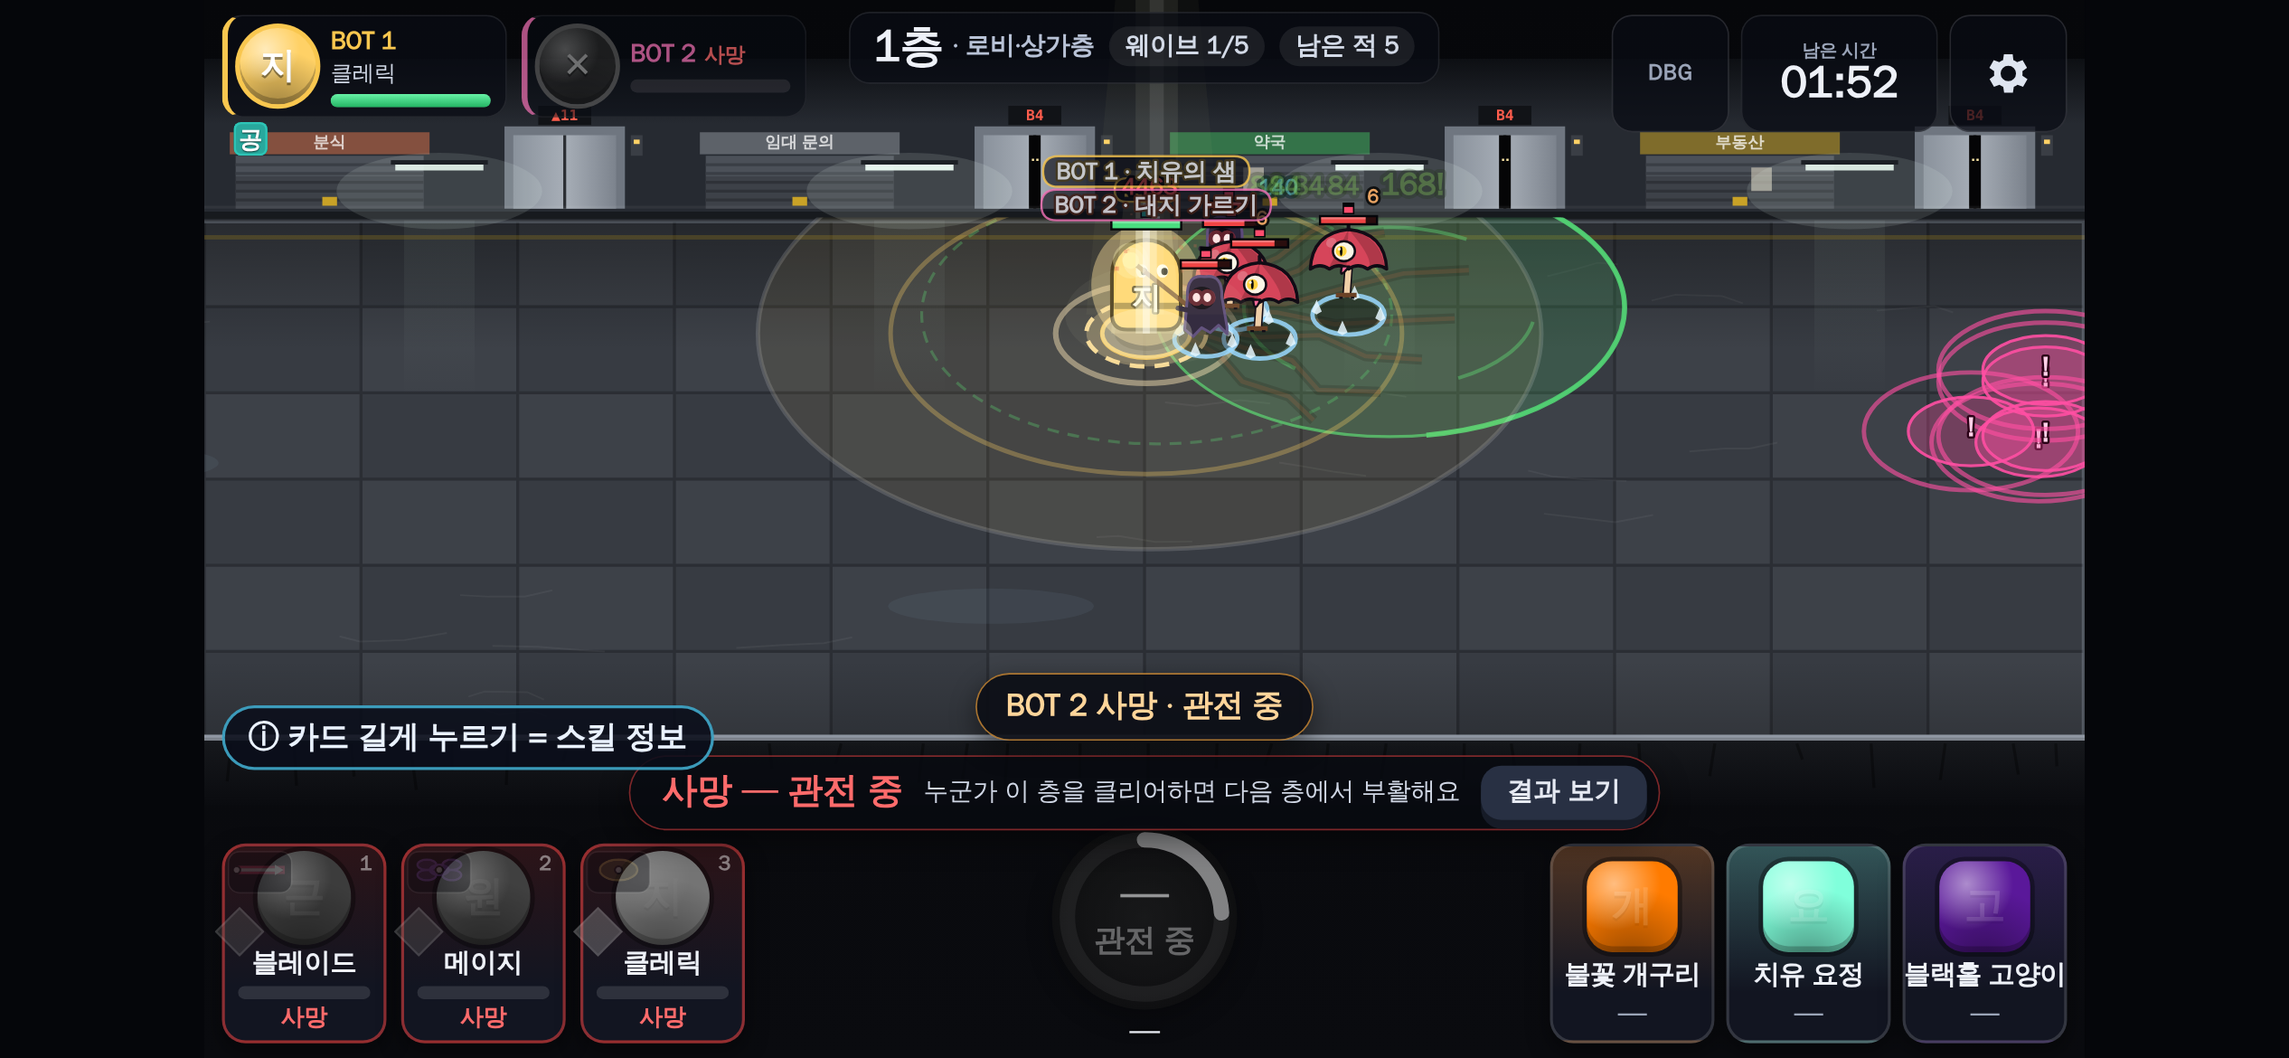
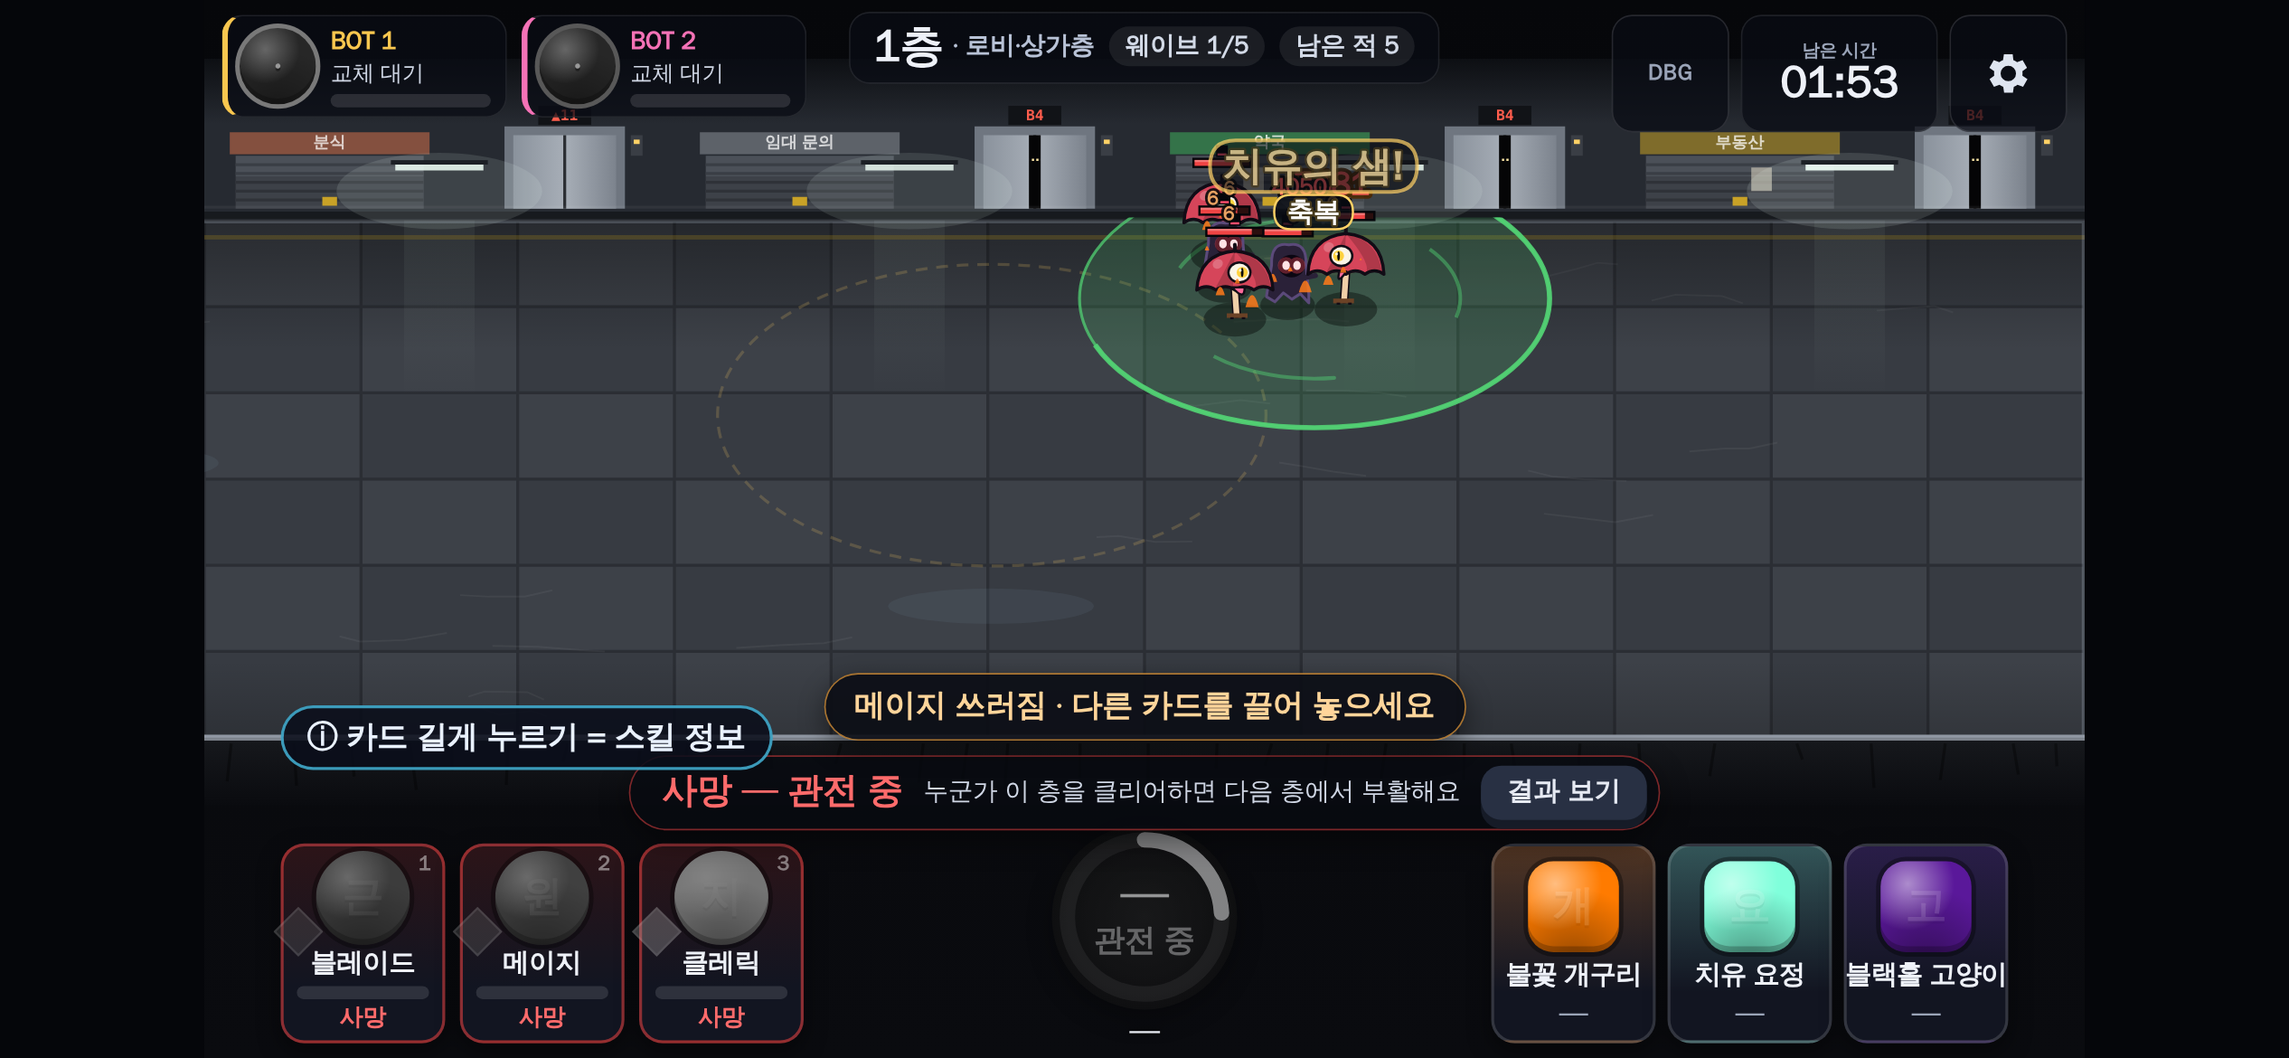
HUD: cards in from the edges, drag cooldown shown only as the big number (round-9 decision)
- character card row 40 px right, pet row 40 px left (stage 1280)
- bench card label says '쿨타임' instead of 'drag N s'; the seconds stay
  as the big countdown on the portrait
- drop the top-left drag-shape badge and its cooldown bar; a drag cast
  flashes the portrait, a cooldown cut flashes the countdown

Claude-Session: https://claude.ai/code/session_019cphuBiihGo4sPKDYcPWCV

diff --git a/src/ui/hud.ts b/src/ui/hud.ts
@@ -8,7 +8,7 @@ import { ROLE_LABEL, getBoss, getCharacter, getMonster, getPet } from '../data';
 import { ZONES } from '../config';
 import { ICON_GEAR, button, h, replayClass, setAttr, setClass, setStyle, setText, show } from './dom';
 import { ROLE_GLYPH, STATUS_GLYPH, STATUS_LABEL, countdown, formatClock, refusalText } from './format';
-import { dragShapeIcon, petIcon, portrait } from './preset';
+import { petIcon, portrait } from './preset';
 import { normalCooldownFor, swapCooldownOf } from '../sim/cooldowns';
 import { type SkillRowKind, cdText, secs, skillRows } from './skillinfo';
 import { markTipSeen, tipSeen } from './storage';
@@ -77,9 +77,8 @@ interface CharCard {
   hpFill: HTMLElement;
   hpShield: HTMLElement;
   state: HTMLElement;
-  /** Drag-skill badge (shape icon) + its re-appear cooldown bar. */
-  drag: HTMLElement;
-  dragBar: HTMLElement;
+  /** Portrait: flashes when this character's drag skill fires. */
+  por: HTMLElement;
   /** Normal (auto) skill cooldown: small diamond at the portrait's lower-left (목업의 마름모 + '0.99') + its seconds. */
   norm: HTMLElement;
   normT: HTMLElement;
@@ -330,12 +329,8 @@ export class Hud {
       el.dataset.idx = String(i);
       const pips = makePips(el, 6, 'cc-pips');
       const frame = h('div', 'cc-frame', el);
-      // mini footprint of the drag skill (shape + fixed direction), like the preset screen: three melee cards
-      // no longer look alike before you lift one. The bar under it fills as the re-appear (= drag-skill) cooldown runs.
-      const drag = h('div', 'cc-drag', frame);
-      const shape = dragShapeIcon(def, 'cc-shape', 40, 22, drag);
-      shape.title = `${ROLE_LABEL[def.role]} · 드래그스킬 ${def.drag.name}`;
-      const dragBar = h('div', 'cc-drag-bar', drag);
+      // 기획 9차: the re-appear (= drag-skill) cooldown shows only as the big number on the portrait
+      // (no top-left badge/bar, no seconds in the label under the name)
       h('div', 'cc-slot', frame, String(i + 1));
       const por = portrait(def, 'cc-portrait', frame);
       const cd = h('div', 'cc-cd is-hidden', por);
@@ -355,7 +350,7 @@ export class Hud {
       // hover help on the card itself (the diamond lets pointers through to the card, so a title there never shows)
       el.title = `${def.name} · 왼쪽 아래 마름모 = 일반스킬 ${def.normal.name} 쿨 (자동) · 길게 누르면 스킬 정보`;
       el.addEventListener('pointerdown', ev => this.onCardPointerDown(i, ev, el));
-      this.charCards.push({ el, def, pips, cd, count, hpFill, hpShield, state, drag, dragBar, norm, normT });
+      this.charCards.push({ el, def, pips, cd, count, hpFill, hpShield, state, por, norm, normT });
     });
 
     // ── bottom-center: ult gauge ──
@@ -701,7 +696,7 @@ export class Hud {
             // the caster's card (by entity: the event may arrive after a swap)
             const idx = s.players[this.localPlayer]?.party.findIndex(m => m.entityId === e.sourceId) ?? -1;
             const card = this.charCards[idx];
-            if (card) replayClass(e.slot === 'normal' ? card.norm : card.drag, 'is-fired');
+            if (card) replayClass(e.slot === 'normal' ? card.norm : card.por, 'is-fired');
           }
           if (e.sourceId !== null && e.sourceId === s.bossId && e.name) {
             // telegraphed patterns stay up until they land; instant ones (소환) for a moment
@@ -904,12 +899,8 @@ export class Hud {
       setClass(c.el, 'is-dead', m.dead);
       setClass(c.el, 'is-cool', cooling || locked);
       setClass(c.el, 'is-ready', ready);
-      // re-appear cooldown = drag-skill cooldown (기획서 4장): say so on the card while it runs
-      setText(
-        c.state,
-        me.out ? '사망' : active ? '활성화' : m.dead ? '쓰러짐' : cooling ? `드래그 ${secs(m.swapCooldownRemaining)}초` : ready ? '교체가능' : '교체불가',
-      );
-      setClass(c.state, 'is-cd', cooling && !me.out);
+      // re-appear cooldown = drag-skill cooldown (기획서 4장): the seconds are the big number on the portrait only
+      setText(c.state, me.out ? '사망' : active ? '활성화' : m.dead ? '쓰러짐' : cooling ? '쿨타임' : ready ? '교체가능' : '교체불가');
       // big countdown: revive time when dead, else the re-appear cooldown of a benched card.
       // Out (all three down = spectating, R11): timers are frozen → no number; all three come back at the next floor
       // if someone clears this one (기획 5차).
@@ -921,11 +912,6 @@ export class Hud {
         const total = m.dead ? Math.max(m.reviveRemaining, this.game.tunables.reviveTime) : Math.max(0.01, m.swapCooldownTotal);
         setStyle(c.cd, '--p', `${Math.round(frac(t, total) * 360)}deg`);
       }
-      // drag badge: bar = how much of the re-appear cooldown has passed (full = ready)
-      const dragLeft = me.out || m.dead ? 1 : m.swapCooldownRemaining > 0 ? frac(m.swapCooldownRemaining, Math.max(0.01, m.swapCooldownTotal)) : 0;
-      setStyle(c.dragBar, 'transform', sx(1 - dragLeft));
-      setClass(c.drag, 'is-ready', ready);
-      setClass(c.drag, 'is-cool', !ready && !active);
       this.updateNormal(c, m, i, me.out, active);
       const hf = m.dead ? 0 : frac(m.hp, m.maxHp);
       setStyle(c.hpFill, 'transform', sx(hf));
@@ -935,10 +921,10 @@ export class Hud {
     });
   }
 
-  /** "-3초" floating off a card whose re-appear cooldown was just cut, plus a flash of its drag badge. */
+  /** "-3초" floating off a card whose re-appear cooldown was just cut, plus a flash of its countdown. */
   private cutPop(c: CharCard, seconds: number): void {
     const pop = h('div', 'cc-cut', c.el, `-${secs(seconds)}초`);
-    replayClass(c.drag, 'is-cut');
+    replayClass(c.cd, 'is-cut');
     setTimeout(() => pop.remove(), 1300);
   }
 

diff --git a/tests/e2e/smoke.spec.ts b/tests/e2e/smoke.spec.ts
@@ -211,7 +211,10 @@ test('full run: preset → combat → drag/pet/ult → reward → boss (enrage, 
   expect(afterSwap.fieldCd).toBe(0);
   await expect(page.locator('.ccard[data-idx="1"]')).toHaveClass(/is-active/);
   await expect(page.locator('.ccard[data-idx="0"]')).toHaveClass(/is-cool/);
-  await expect(page.locator('.ccard[data-idx="0"] .cc-state')).toHaveText(/^드래그 \d+(\.\d)?초$/);
+  // 기획 9차: the drag (= re-appear) cooldown is the big number on the portrait only — no badge, no seconds in the label
+  await expect(page.locator('.ccard[data-idx="0"] .cc-count')).toHaveText(/^\d+$/);
+  await expect(page.locator('.ccard[data-idx="0"] .cc-state')).toHaveText('쿨타임');
+  await expect(page.locator('.ccard .cc-drag')).toHaveCount(0);
 
   // ── 쿨타임이 보임: each card's auto-skill diamond (목업의 마름모: lit = ready, else small seconds), no separate widget;
   //    drag (= re-appear) cooldowns on the cards ──
@@ -243,7 +246,7 @@ test('full run: preset → combat → drag/pet/ult → reward → boss (enrage, 
   // the "i" (tap → skill sheet) only on the field character's card
   await expect(page.locator('.ccard[data-idx="1"] .cc-info')).toBeVisible();
   await expect(page.locator('.ccard[data-idx="0"] .cc-info')).toBeHidden();
-  // small, and clear of the drag badge, the card number, name, HP bar and label (diamond = |dx| + |dy| ≤ r)
+  // small, and clear of the card number, countdown, name, HP bar and label (diamond = |dx| + |dy| ≤ r)
   const clash = await page.evaluate(() =>
     [...document.querySelectorAll('.ccard')].flatMap(card => {
       const d = card.querySelector('.cc-norm')!.getBoundingClientRect();
@@ -253,7 +256,7 @@ test('full run: preset → combat → drag/pet/ult → reward → boss (enrage, 
       const stage = document.querySelector('.stage')!.getBoundingClientRect();
       const out: string[] = [];
       if (d.width / (stage.width / 1280) > 40) out.push(`${(card as HTMLElement).dataset.idx}: diamond ${d.width.toFixed(1)} px is not small`);
-      for (const sel of ['.cc-drag', '.cc-slot', '.cc-name', '.cc-hp', '.cc-state', '.cc-info']) {
+      for (const sel of ['.cc-slot', '.cc-count', '.cc-name', '.cc-hp', '.cc-state', '.cc-info']) {
         const el = card.querySelector(sel) as HTMLElement | null;
         if (!el || el.offsetParent === null) continue;
         const b = el.getBoundingClientRect();
@@ -271,7 +274,10 @@ test('full run: preset → combat → drag/pet/ult → reward → boss (enrage, 
       const m = me.party[idx as number];
       return { active: me.activeIndex === idx, cd: m.swapCooldownRemaining, dead: m.dead };
     }, i);
-    if (!st.active && !st.dead && st.cd > 0.3) await expect(page.locator(`.ccard[data-idx="${i}"] .cc-state`)).toHaveText(/^드래그 \d+(\.\d)?초$/);
+    if (!st.active && !st.dead && st.cd > 0.3) {
+      await expect(page.locator(`.ccard[data-idx="${i}"] .cc-state`)).toHaveText('쿨타임');
+      await expect(page.locator(`.ccard[data-idx="${i}"] .cc-count`)).toHaveText(/^\d+$/);
+    }
   }
   await expect(page.locator('.ult-sub')).toHaveText(/(\d+초 후|궁극기 준비)$/);
   // tap the field character's card → compact skill sheet over the field (never blocks it), tap again → closed

diff --git a/src/ui/styles.css b/src/ui/styles.css
@@ -1389,10 +1389,10 @@
   letter-spacing: 0.5px;
 }
 
-/* bottom-left: character cards */
+/* bottom-left: character cards (기획 9차: a little in from the edge) */
 .hud-bl {
   position: absolute;
-  left: 12px;
+  left: 52px;
   bottom: 10px;
   display: flex;
   align-items: flex-end;
@@ -1544,70 +1544,9 @@
   color: #ff6b6b;
 }
 
-/* drag-skill footprint badge: above the portrait's corner (the glyph/countdown stays clear in the middle).
-   The bar under the shape = how much of the re-appear (= drag-skill) cooldown has passed; green ring = ready. */
-.cc-drag {
-  position: absolute;
-  z-index: 2;
-  top: 4px;
-  left: 3px;
-  width: 42px;
-  height: 27px;
-  border-radius: 7px;
-  background: rgba(6, 8, 14, 0.86);
-  box-shadow: 0 0 0 1px rgba(255, 255, 255, 0.16);
-  pointer-events: none;
-  overflow: hidden;
-}
-
-.cc-shape {
-  position: absolute;
-  top: 1px;
-  left: 1px;
-  width: 40px;
-  height: 22px;
-}
-
-.cc-drag-bar {
-  position: absolute;
-  left: 0;
-  right: 0;
-  bottom: 0;
-  height: 4px;
-  transform-origin: 0 50%;
-  background: color-mix(in srgb, var(--c) 80%, white);
-  transition: transform 0.12s linear;
-}
-
-.cc-drag.is-cool .cc-shape {
-  opacity: 0.4;
-}
-
-.cc-drag.is-cool .cc-drag-bar {
-  background: rgba(255, 255, 255, 0.55);
-}
-
-.cc-drag.is-ready {
-  box-shadow: 0 0 0 2px var(--green), 0 0 12px rgba(61, 220, 132, 0.75);
-}
-
-.cc-drag.is-ready .cc-drag-bar {
-  background: var(--green);
-}
-
-.cc-drag.is-fired {
+/* the drag skill fired (it just appeared): its portrait flashes */
+.cc-portrait.is-fired {
   animation: badgeFired 0.55s ease-out;
-}
-
-.ccard.is-dead .cc-drag {
-  opacity: 0.4;
-}
-
-.cc-state.is-cd {
-  color: #d6e6ff;
-  font-size: 15px;
-  letter-spacing: -0.4px;
-  font-variant-numeric: tabular-nums;
 }
 
 @keyframes badgeFired {
@@ -1795,7 +1734,7 @@
 /* one-time tip (start of floor 1, until the sheet was opened once): right above the card row */
 .sheet-tip {
   position: absolute;
-  left: 12px;
+  left: 52px;
   bottom: 196px;
   padding: 7px 16px;
   border-radius: 999px;
@@ -1817,7 +1756,7 @@
   display: none;
 }
 
-/* a cooldown cut on a bench card (크로노 …): "-3초" floats up off the card, the drag badge flashes */
+/* a cooldown cut on a bench card (크로노 …): "-3초" floats up off the card, its countdown flashes */
 .cc-cut {
   position: absolute;
   z-index: 4;
@@ -1840,7 +1779,7 @@
   100% { opacity: 0; transform: translate(-50%, -40px) scale(1); }
 }
 
-.cc-drag.is-cut {
+.cc-cd.is-cut {
   animation: badgeFired 0.7s ease-out;
 }
 
@@ -2080,10 +2019,10 @@
   opacity: 0.6;
 }
 
-/* bottom-right: pets */
+/* bottom-right: pets (기획 9차: a little in from the edge) */
 .hud-br {
   position: absolute;
-  right: 12px;
+  right: 52px;
   bottom: 10px;
   display: flex;
   gap: 8px;
@@ -3971,10 +3910,6 @@
 
 .stage.is-small .pc-state {
   font-size: 19px;
-}
-
-.stage.is-small .cc-state.is-cd {
-  font-size: 18px;
 }
 
 .stage.is-small .pip {

diff --git a/docs/prototype-architecture.md b/docs/prototype-architecture.md
@@ -162,12 +162,12 @@ Playwright 프로젝트 (`playwright.config.ts`, Chromium은 `/opt/pw-browsers/c
 
 HUD (`src/ui/hud.ts`, `src/ui/skillinfo.ts`, `styles.css`):
 - **일반스킬 쿨 = 카드의 작은 마름모** (목업의 마름모 + '0.99', 4차 결정 §17): 카드마다(활성·대기 모두) 초상화 왼쪽 아래, 카드 왼쪽 테두리에 걸쳐 작은 마름모. 준비 = 캐릭터 색으로 빛나는 마름모, 쿨 중 = 어두운 마름모에 색이 시계 방향으로 다시 차오르고 남은 초(3초 이상은 정수 "6", 마지막 3초는 소수 한 자리 "2.4" — 최대 3글자라 폰(글자 19~20 = 약 10~11 CSS px)에서도 마름모 안에 들어감. 올림이라 쿨 중엔 "0"/"0.0" 없음; `skillinfo.ts` `cdText`). 필드 카드가 준비됐는데 안 나가는 중(맞힐 적이 사거리 밖 / 기절) = 빛나는 마름모를 흐리게(`is-waiting`, 스킬 정보의 "대기"와 같은 조건). 쿨 길이는 sim의 `sim/cooldowns.ts` `normalCooldownFor`(데이터 × 보상 감소)를 그대로 호출 (멀티는 스냅샷의 PlayerState로, 테스트로 같음을 확인). 대기 카드의 쿨도 sim처럼 계속 흐름. 쓰러짐/관전 = 흐린 회색, 숫자 없음. 발동(`skillCast` slot normal)하면 마름모가 번쩍이고 테두리가 퍼짐. 마름모는 포인터를 통과시키므로 마우스 설명(title)은 카드에 있음. 따로 크게 띄우던 "자동 스킬" 칸은 없앰. 활성 카드 오른쪽(번호 아래) 작은 "i" = 탭하면 스킬 정보.
-- **카드**: 쿨 중인 대기 카드 상태 줄 = "드래그 6.2초"(재등장 쿨 = 드래그스킬 쿨). 왼쪽 위 드래그 모양 배지 아래 막대가 쿨만큼 차고, 준비되면 초록 테두리.
+- **카드**: 재등장 쿨(= 드래그스킬 쿨)은 초상화 위 큰 숫자 하나로만 보임 (9차 결정 §22). 쿨 중인 대기 카드 상태 줄 = "쿨타임"(초는 안 씀). 왼쪽 위 드래그 모양 배지·쿨 막대는 없앰 — 드래그 모양은 끌 때 미리보기와 스킬 정보에 있음. 드래그스킬이 나가면 초상화가 번쩍임.
 - **궁극기**: % 아래 "N초 후"(충전은 시간만: `(1 − charge) × ultChargeTime`), 쓸 수 있으면 "탭!".
-- **쿨 감소가 보임**: 대기 카드의 재등장 쿨이 시간보다 빨리 줄면(크로노 시간 균열, 펫 등) 카드 위로 "-2초"(크로노 시간 균열, 6차 수치) 같은 숫자가 떠오르고 드래그 배지가 번쩍임 (`hud.ts` `cutPop`).
+- **쿨 감소가 보임**: 대기 카드의 재등장 쿨이 시간보다 빨리 줄면(크로노 시간 균열, 펫 등) 카드 위로 "-2초"(크로노 시간 균열, 6차 수치) 같은 숫자가 떠오르고 큰 숫자가 번쩍임 (`hud.ts` `cutPop`).
 - **스킬 정보**: 활성 카드 탭("i" 표시), 또는 아무 카드 길게 누르기(0.42초) → 5개 스킬, 스킬마다 두 줄(종류 · 이름 · 발동/쿨 · 지금 남은 시간 / 효과 전체, 잘리지 않고 줄바꿈). 폭 520(폰 560), **내 캐릭터 반대쪽 절반**에 뜨고 캐릭터가 그 밑으로 걸어오면 반대쪽으로 옮김. 효과 문구는 데이터에서 만들어서(`skillSummary`, 장판은 "0.5초마다 회복 2% · 4초 장판") 수치를 바꾸면 같이 바뀜. 터치를 막지 않음(pointer-events 없음), 7초 뒤 자동으로 닫힘, 드래그 시작하면 닫힘. 쿨 중인 카드를 길게 눌러도 거절 안내·흔들림 없음 (손가락을 끌거나 그냥 탭했을 때만).
 - **처음 안내**: 1층 시작에 카드 줄 위 "ⓘ 카드 길게 누르기 = 스킬 정보" (9초, 스킬 정보를 한 번 열 때까지 런마다, `storage.ts` `tipSeen`).
-- **폰 글자 크기**: 무대가 0.75배보다 작게 그려지면(844×390 폰 = 0.54) `.stage.is-small` → 작은 HUD 글자(카드 마름모 숫자, 궁극기 "N초 후", 펫 이름·상태, 카드 쿨 문구, 상태 칸, 스킬 정보)를 키움 (`styles.css` 맨 아래).
+- **폰 글자 크기**: 무대가 0.75배보다 작게 그려지면(844×390 폰 = 0.54) `.stage.is-small` → 작은 HUD 글자(카드 마름모 숫자, 궁극기 "N초 후", 펫 이름·상태, 상태 칸, 스킬 정보)를 키움 (`styles.css` 맨 아래).
 
 필드 (`src/render/*`):
 - 동작: 대기 숨쉬기·걸을 때 튐+기울기, 근접 평타 = 예비동작(뒤로 젖힘·무기 들기) → 휘두르기(전진·무기 회전, 캐릭터 색 베기 궤적) → 복귀. 타격 숫자·번쩍임·밀림은 휘두르는 순간(0.07초 뒤)에 맞춤. 원거리 = 반동 + 총구/활시위 섬광, 투사체 모양이 캐릭터마다 다름(화살·탄환·불덩이·성광구·음표·시계 조각). 기절 = 흔들림+별, 둔화 = 발밑 얼음, 화상 = 불꽃.

diff --git a/docs/game-design.md b/docs/game-design.md
@@ -381,3 +381,11 @@
 - 화면: 페이즈 배너를 아레나 아래쪽 작은 한 줄로, 위쪽 HUD에 가리는 "나" 이름표는 발밑으로, 여러 부분 패턴(문짝 쓸기 등)은 다음 부분만 진하게 + 번호 + 화살표 + 처음 한 번 팁, 겹친 예고는 한 겹으로, 폰에서 흔들림 약 1.5배, 느린 기기에서도 타격 멈춤 1프레임 보장, 광폭화 비네트를 가볍게, 사무실 23:59 시계·옥상이 층마다 붉어지는 하늘과 눈, 구역 첫 층 괴담 한 줄, 붉은 마스크·신호등 인간·간호 인형 외형, 보스 그림을 HUD 아래로
 - ❓ 남은 것: 파티 구성 차이(원거리·지원만이면 15%), 20층을 반반 벽으로 둘지, 16층 벽, 사람 3명 멀티 난이도, 눈알 줄기 이동 여부 (content-20f.md 7장)
 
+## 22. 9차 결정 (2026-10-05)
+
+- 드래그 착지 타격 멈춤·화면 흔들림(8차), 스프라이트 크기 안내는 **그대로 둠** ✅
+- 카드 위치: 캐릭터 카드 줄을 살짝 오른쪽으로, 펫 카드 줄을 살짝 왼쪽으로 (화면 가장자리에서 각각 40씩 안쪽, 무대 1280 기준) ✅
+- 드래그스킬(= 재등장) 쿨은 **초상화 위 큰 숫자 하나만** ✅
+  - 카드 아래 상태 줄의 "드래그 6.2초" → "쿨타임" (초는 큰 숫자에만)
+  - 카드 왼쪽 위 드래그 모양 배지 + 쿨 막대는 없앰. 드래그 모양은 끌 때 미리보기와 스킬 정보(길게 누르기)에서 보임
+  - 일반스킬 마름모(4차)는 그대로
